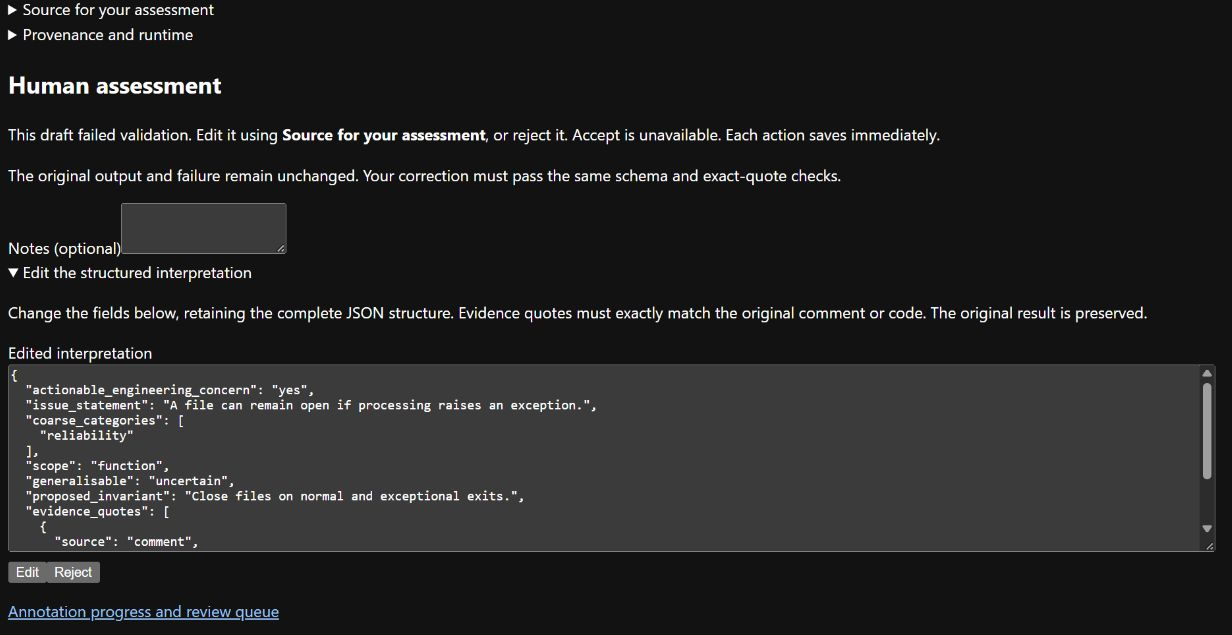
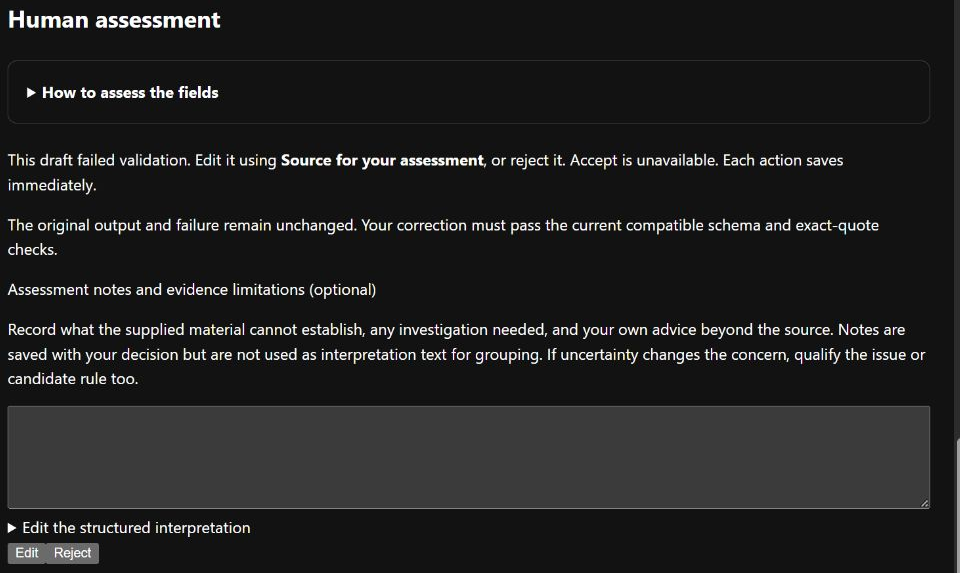
docs: backfill assessment guides and screenshots

diff --git a/docs/images/README.md b/docs/images/README.md
@@ -54,16 +54,19 @@ using its existing dark appearance, a reported 1280 × 720 CSS viewport and nati
 
 Only pixel crops were applied: no scaling, redaction, compositing or content edits.
 Raw captures and runtime files remain outside Git. [captures.json](captures.json)
-and [the correction captures](captures-draft-repair.json) record pixel crop rectangles, scroll positions, image dimensions and SHA-256 hashes.
+and [the correction captures](captures-draft-repair.json) record earlier pixel crop rectangles, scroll positions, image dimensions and SHA-256 hashes.
+The [assessment clarity captures](captures-assessment-clarity.json) supersede the
+result, assessment and failed-draft entries and add the source panel.
 Use the visible landmarks below when different browser scaling makes those exact
 coordinates unsuitable. A crop must keep the relevant labels and controls readable.
 
 | Asset | Route key | Type / pixels | Content to retain |
 | --- | --- | --- | --- |
 | [Source browser](source-browser.png) | `observations` | Overview, 1232 × 675 | Dataset title, synthetic label, comment/code pair and Normalise action |
-| [Interpretation result](annotation-result.png) | `annotation` | Overview, 1232 × 535 | Proposed issue and quoted evidence |
-| [Assessment controls](annotation-assessment.png) | `annotation` | Panel, 960 × 221 | Human assessment heading, explanation, notes, editor and all buttons |
-| [Failed draft](failed-draft-assessment.png) | `failed_annotation` | Overview, 1232 × 635 | Failure explanation, original draft editor and Edit/Reject controls |
+| [Assessment source](assessment-source.png) | `annotation` | Panel, 960 × 431 | Open source panel, synthetic origin, comment and code |
+| [Interpretation result](annotation-result.png) | `annotation` | Panel, 960 × 507 | Proposed issue, impact scope, candidate rule and quoted evidence |
+| [Assessment controls](annotation-assessment.png) | `annotation` | Panel, 960 × 484 | Human assessment heading, field help, evidence notes, editor and all buttons |
+| [Failed draft](failed-draft-assessment.png) | `failed_annotation` | Panel, 960 × 573 | Failure explanation, collapsed editor and Edit/Reject controls |
 | [Saved selection](frozen-selection.png) | `selection` | Overview, 1232 × 605 | Fixture label, totals, queue action and complete first input card |
 | [Discovery group](discovery-group.png) | `discovery` | Overview, 1232 × 514 | Result heading, fixture label, totals and complete representative card |
 | [Rule definition](rule-definition.png) | `rule` | Panel, 960 × 391 | Title, fixture label, pending state, scope and exclusions |
@@ -88,7 +91,11 @@ group-rating interface yet; the discovery image must not be described as one.
 - In PRs, use an immutable image URL from the reviewed commit and link these notes.
   Keep routine validation evidence separate from the illustration.
 
-The correction capture record supersedes the earlier result and assessment entries
-in `captures.json`; the other original captures remain current. The failed-draft
-image shows an unreviewed synthetic job. Browser verification used a separate
-synthetic job and saved one correction; neither is research data.
+The assessment clarity images were captured on 20 September 2026 using application
+code at `5efdc2e`, with a 1000 × 720 CSS viewport during responsive checks. Native
+captures were cropped to the existing 960-pixel panel width. The viewport override
+was reset afterwards. The failed editor was collapsed manually for the image; it
+opens by default. No decision was saved during these captures.
+
+The other original captures remain current. Earlier correction verification used a
+separate synthetic job and saved one correction; neither demonstration is research data.

diff --git a/docs/development/failed-drafts.md b/docs/development/failed-drafts.md
@@ -9,7 +9,7 @@ stored separately; the model job, original text and failure remain unchanged.
 | Step | What to do |
 | --- | --- |
 | Open the job | Read the failure message. **Edit** and **Reject** appear only when a retained semantic draft is available. |
-| Read the source | Expand **Source for your assessment**. Read the original comment and supplied code; neither is an instruction for you or the agent to execute. |
+| Read the source | Read the open **Source for your assessment** panel. Read the original comment and supplied code; neither is an instruction for you or the agent to execute. |
 | Compare the draft | Check whether it describes the actual concern and whether the quoted text supports that interpretation. A quote match alone does not make the claim correct. |
 | Edit | Correct the JSON in **Edit the structured interpretation**, then select **Edit**. Keep the full structure, including fields you did not change. |
 | Reject | If the draft cannot serve the study, add a short reason in **Notes** and select **Reject**. You do not need to fix its JSON first. |
@@ -21,8 +21,10 @@ have no reviewable draft; they remain available for inspection.
 
 ![Failed draft assessment with its original warning, JSON editor and Edit/Reject buttons.](../images/failed-draft-assessment.png)
 
-The [synthetic demonstration](../images/README.md) is awaiting correction. The
-original failed draft is displayed; it has not been replaced by a suggested answer.
+The [synthetic demonstration](../images/README.md) is awaiting correction. Its
+editor was collapsed for this image; it opens by default and retains the original
+failed draft. Read [the assessment field guide](assessment-fields.md) for the
+distinction between impact, applicability and evidence limitations.
 
 ## What the JSON fields mean
 
@@ -31,11 +33,11 @@ original failed draft is displayed; it has not been replaced by a suggested answ
 | `actionable_engineering_concern` | Does the source identify an engineering concern? Use `yes`, `no` or `uncertain`. |
 | `issue_statement` | State the concern in plain language without inventing requirements. |
 | `coarse_categories` | A short list of descriptive categories; retain the JSON array. |
-| `scope` | Choose `expression`, `statement`, `function`, `class`, `file`, `module` or `repository`. |
+| `scope` | Smallest affected code unit supported by the evidence: `expression`, `statement`, `function`, `class`, `file`, `module`, `repository` or `unknown`. Investigation extent belongs in notes. |
 | `generalisable` | Could the concern apply beyond this instance? Use `yes`, `no` or `uncertain`. |
 | `proposed_invariant` | A condition that should hold, or `null` when none is justified. |
 | `evidence_quotes` | Quote exact, unique text from `comment` or `code`. A `yes` actionable concern needs at least one quote. |
-| `exclusions` | Conditions that limit applicability; keep an empty array when none is justified. |
+| `exclusions` | Known exceptions or conditions limiting applicability. Keep an empty array when none are identified; put missing evidence in notes. |
 
 For example, if the supplied comment is `Close the file even when parsing fails.`,
 this evidence entry identifies its exact text:

diff --git a/docs/adr/ADR-0014-clarify-assessment-field-meanings.md b/docs/adr/ADR-0014-clarify-assessment-field-meanings.md
@@ -1,5 +1,5 @@
 ---
-status: accepted
+status: implemented
 date: 2026-09-20
 decision-makers: [Finn Newick]
 ---
@@ -55,10 +55,23 @@ and unchanged exact-quote checks. Do not rerun the study's frozen initial pass.
 
 ### Confirmation
 
-Before marking implemented: verify old and unknown scopes, exact grounding and
-immutable result preservation; inspect the synthetic review UI and affected guides;
-retain the paused assessment and verify that the live study has not been changed.
-Record candidate revision and evidence in the confirmation update.
+Implemented in the assessment-clarity candidate branch, before owner review/merge.
+The implementation at `5efdc2e` passed the eight targeted workflow tests and six
+annotation-web tests, covering old/unknown scope, grounding, immutable originals,
+separate notes and restart. The prompt-version expectation correction at `59c058f`
+passed its targeted failure-provenance recheck; the earlier complete test failure
+is retained. Full checkpoint qualification is recorded separately by DER.
+
+Synthetic browser inspection covered successful and failed drafts, field-help
+expansion and 600/1000-pixel responsive widths. Current screenshots and their
+capture record are in [the image guide](../images/README.md). The read-only study
+check found all 55 original artefacts unchanged, 55 jobs, 331 events, zero annotations
+and zero discovery runs. Preliminary human observations remain outside Git.
+
+Evidence: DER `assessment-clarity/r1`, including `normalisation-tests.log`,
+`annotation-web-tests.log`, `prompt-provenance-recheck.log`, `responsive-check.json`
+and `live-before.json`. Revisit if future consumers need structured evidence limits
+or if independent reviewers cannot apply the clarified meanings consistently.
 
 ## Pros and Cons of the Options
 

diff --git a/docs/development/annotations.md b/docs/development/annotations.md
@@ -10,7 +10,9 @@ First [run normalisation](normalisation.md) and open the job. For a failed draft
 follow [correction and rejection](failed-drafts.md); infrastructure failures have
 no interpretation to assess.
 
-1. Read the original comment, code, proposed interpretation and quoted evidence.
+1. Read the open source panel, then assess the interpretation using the
+   [field guide](assessment-fields.md). Impact scope describes affected code;
+   investigation needs and missing evidence belong in notes.
 2. Choose an action:
 
    | Action | What is saved |
@@ -20,11 +22,14 @@ no interpretation to assess.
    | **Reject** | Your rejection; the source counts as reviewed, not accepted |
 
 3. For **Edit**, expand the structured interpretation and edit its JSON fields.
-   The same schema and source-quote checks apply as for model output. Invalid
+   The current compatible schema and exact source-quote checks apply. Invalid
    drafts stay visible for correction.
-4. Submit the decision. It is saved immediately; there is no draft/apply stage for
+4. Add evidence limitations, investigation needs and any additional advice to
+   **Assessment notes and evidence limitations**. Attribute advice beyond the
+   source to yourself; notes are not interpretation text for grouping.
+5. Submit the decision. It is saved immediately; there is no draft/apply stage for
    source annotations. The page shows your decision separately from the model result.
-5. Open **Annotation progress and review queue** to find unreviewed outputs or
+6. Open **Annotation progress and review queue** to find unreviewed outputs or
    inspect failures. For a study, follow its prepared order instead of this queue.
 
 An identical retry returns the saved decision. A different decision for the same

diff --git a/docs/adr/README.md b/docs/adr/README.md
@@ -65,7 +65,7 @@ Newest first. Status here describes the decision, not the PR or vertical slice.
 
 | Record | Title | Status | Decision-makers | Date |
 | --- | --- | --- | --- | --- |
-| [ADR-0014](ADR-0014-clarify-assessment-field-meanings.md) | Distinguish impact, applicability and evidence limits in assessments | accepted | Finn Newick | 2026-09-20 |
+| [ADR-0014](ADR-0014-clarify-assessment-field-meanings.md) | Distinguish impact, applicability and evidence limits in assessments | implemented | Finn Newick | 2026-09-20 |
 | [ADR-0013](ADR-0013-preserve-failed-drafts-during-human-correction.md) | Preserve failed drafts during human correction | implemented | Finn Newick | 2026-09-20 |
 | [ADR-0012](ADR-0012-apply-review-intent-in-explicit-batches.md) | Apply review intent in explicit batches | implemented | Project owner | 2026-09-20 |
 | [ADR-0011](ADR-0011-preserve-rule-evidence-across-revisions.md) | Preserve rule evidence across immutable revisions | implemented | Project owner | 2026-09-20 |

diff --git a/docs/development/README.md b/docs/development/README.md
@@ -49,9 +49,11 @@ green checks without explicit owner approval.
 4. Implement using the [Python style](python-style.md), [commenting](code-comments.md)
    and [documentation](documentation-style.md) guides. Check actual callers as well
    as declared interfaces.
-5. Reconcile affected guides, glossary, backlog and [ADR statuses](../adr/README.md#lifecycle-review).
+5. Before changing assessment fields or collecting judgements, check the
+   [assessment contract](assessment-contract.md) against prompts, schemas and UI.
+6. Reconcile affected guides, glossary, backlog and [ADR statuses](../adr/README.md#lifecycle-review).
    Check whether a significant evidence-dependent choice needs an [EDR](../edr/README.md).
-6. Verify the result and review the combined change before publication.
+7. Verify the result and review the combined change before publication.
 
 ## Review boundaries
 

diff --git a/CONTEXT.md b/CONTEXT.md
@@ -204,3 +204,18 @@ can leave external completion unknown without automatic replay.
 
 A saved view of before/after architecture records and their differences. A source
 checksum detects code/configuration changes; the view does not certify quality or review readiness.
+
+## Impact scope
+
+The smallest affected code unit established by supplied evidence; unknown when
+that extent cannot be established. Distinct from the area needed for investigation.
+
+## Applicability limits
+
+Known exceptions or conditions under which a concern or candidate rule does not
+apply. Stored as interpretation exclusions; distinct from missing evidence.
+
+## Evidence limitations
+
+Facts the supplied material cannot establish, recorded in annotation notes along
+with investigation needs. These notes are not interpretation text for grouping.

diff --git a/docs/development/assessment-fields.md b/docs/development/assessment-fields.md
@@ -14,6 +14,11 @@ that the original reviewer was right or that a proposed general rule is valid.
 | Add notes | Identify missing evidence, investigation needs and your own additional advice. | Preserve the distinction between source evidence and your judgement. |
 | Save one decision | Accept, Edit or Reject the complete interpretation. For Edit, keep the complete JSON structure. | The buttons save immediately; they do not save individual fields. |
 
+![The source comment and code in a distinct, open assessment panel.](../images/assessment-source.png)
+
+This [synthetic example](../images/README.md) illustrates the source panel; it is
+not a research judgement.
+
 ## Interpret the fields
 
 | Field in the editor | Meaning and allowed values |

diff --git a/docs/README.md b/docs/README.md
@@ -10,6 +10,7 @@ how to use the code in this checkout. The [glossary](../CONTEXT.md) explains pro
 | Understand the public sample and recover dataset files | [Datasets](development/datasets.md) |
 | Start a local model server | [Local inference setup](development/local-inference.md) |
 | Ask a model to interpret a review comment | [Normalisation](development/normalisation.md) |
+| Understand assessment fields | [Field meanings and worked steps](development/assessment-fields.md) |
 | Review and correct interpretations | [Annotations](development/annotations.md) |
 | Choose a fixed set of reviewed inputs | [Selections](development/selections.md) |
 | Group concerns and inspect their sources | [Discovery](development/discovery.md) |

diff --git a/docs/development/study-preparation.md b/docs/development/study-preparation.md
@@ -123,6 +123,9 @@ do not rewrite them or silently branch the preparation history.
 
 Use the existing [normalisation workflow](normalisation.md) to produce the queued
 interpretations and [annotation controls](annotations.md) to record your review.
+Use the [field meanings](assessment-fields.md), distinguish impact from investigation
+needs, and record any assistance or prior exposure. Pause before saving if a field
+cannot express your judgement faithfully.
 Work through the prepared order; do not choose only promising-looking concerns.
 
 ![The existing Human assessment panel offers Accept, Edit and Reject, with optional notes and a structured editor.](../images/annotation-assessment.png)
